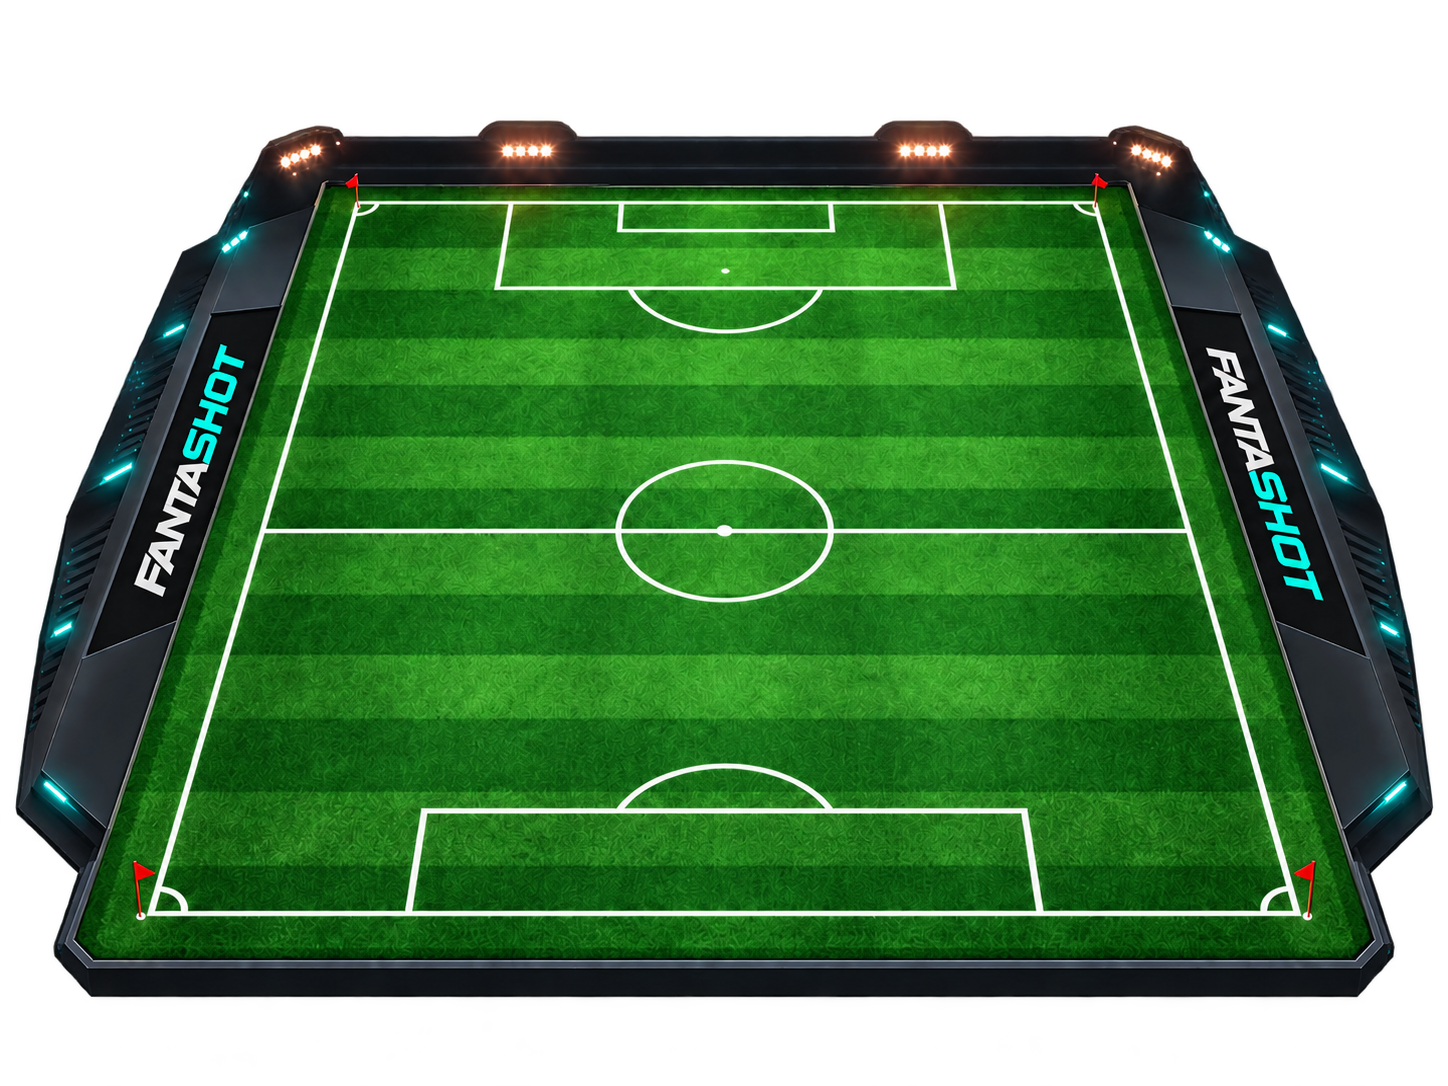
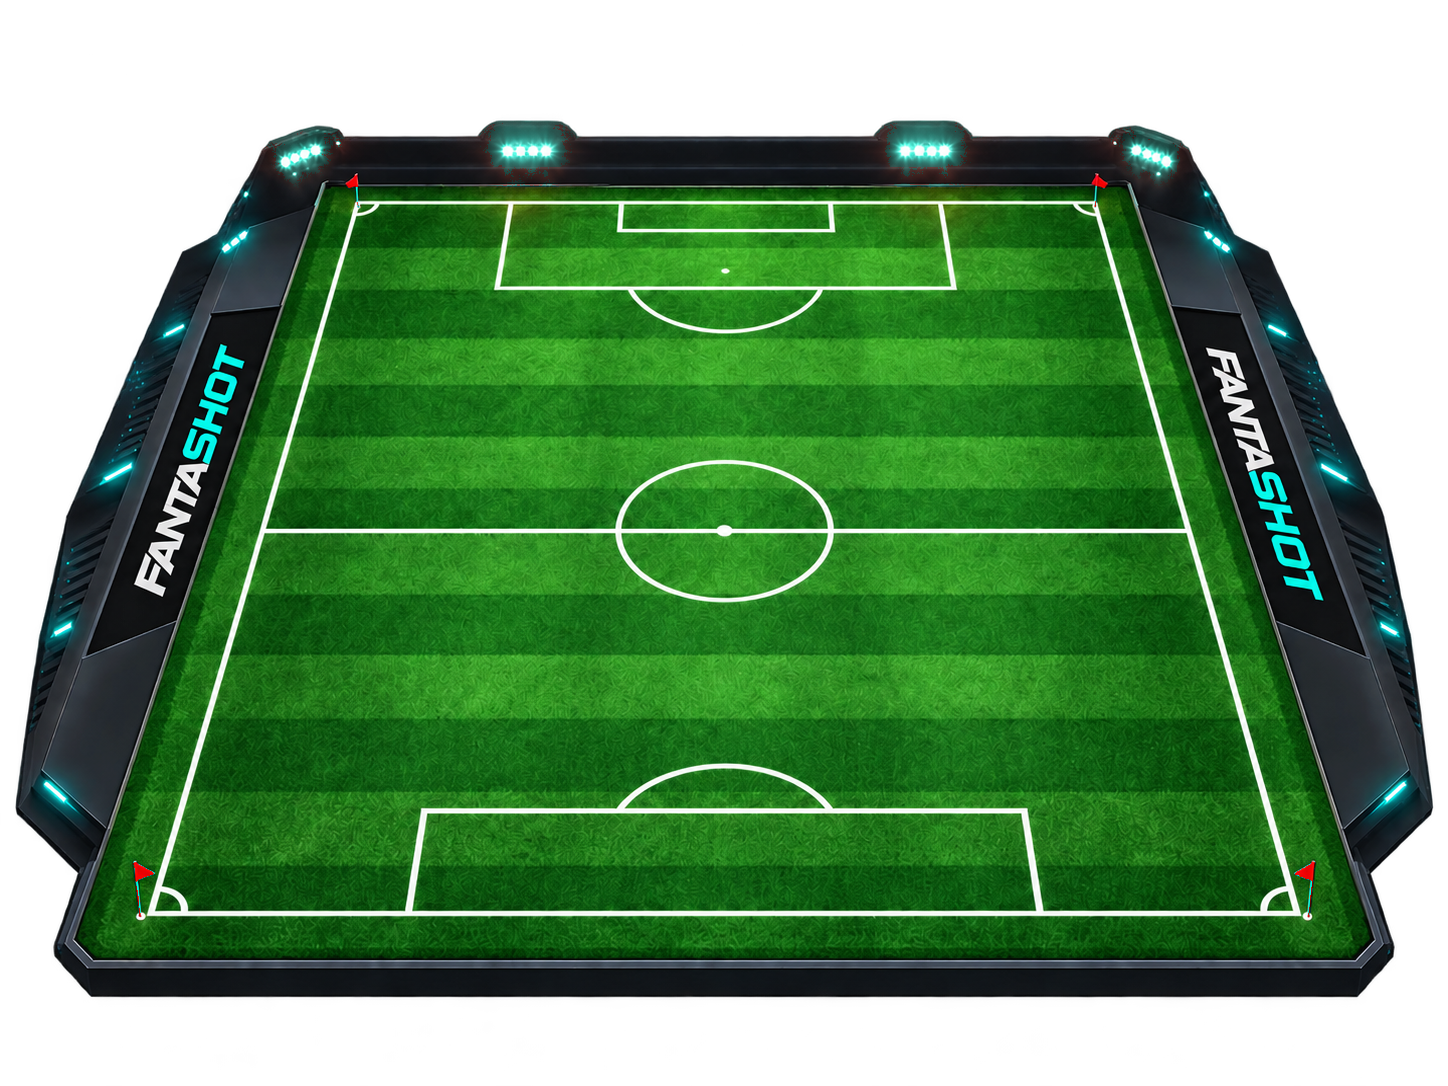
Rebrand palette (teal), classifica, anteprima formazione, regolamento, fix vari

diff --git a/components/tournament/TeamBuilder.tsx b/components/tournament/TeamBuilder.tsx
@@ -204,7 +204,7 @@ export function TeamBuilder({
   }
 
   return (
-    <div className="relative overflow-hidden rounded-xl border border-[#22E6C3]/30 bg-[linear-gradient(145deg,#0F1E2E_0%,#120605_58%,#1a0807_100%)] shadow-[0_26px_80px_rgba(0,0,0,0.45)]">
+    <div className="relative overflow-hidden rounded-xl border border-[#22E6C3]/30 bg-[linear-gradient(145deg,#0F1E2E_0%,#0A1420_58%,#06111B_100%)] shadow-[0_26px_80px_rgba(0,0,0,0.45)]">
       <div className="flex flex-wrap items-center justify-between gap-4 border-b border-white/10 bg-black/15 px-4 py-4 sm:px-6">
         <div className="flex items-center gap-3">
           <span className="grid h-10 w-10 place-items-center rounded-lg bg-[#22E6C3]/12 text-[#22E6C3]">
@@ -441,7 +441,7 @@ function FormationSummary({
 
   return (
     <aside className="border-t border-[#22E6C3]/20 bg-black/15 p-4 sm:p-5 xl:border-t-0">
-      <div className="rounded-xl border border-[#22E6C3]/25 bg-[linear-gradient(145deg,rgba(35,10,8,0.9),rgba(18,6,5,0.96))] p-4">
+      <div className="rounded-xl border border-[#22E6C3]/25 bg-[linear-gradient(145deg,rgba(15,30,46,0.9),rgba(6,17,27,0.96))] p-4">
         <section>
         <div className="flex items-center gap-2 text-[#22E6C3]">
           <FormationIcon />
@@ -905,8 +905,8 @@ function PlayerPickerModal({
 
 function PitchBackground() {
   return (
-    <div className="absolute inset-0 overflow-hidden bg-[radial-gradient(ellipse_at_center,rgba(72,19,14,0.34),transparent_68%)]">
-      <div className="absolute inset-x-[8%] bottom-[7%] top-[13%] bg-[radial-gradient(ellipse_at_center,rgba(16,185,44,0.2),transparent_65%)] blur-2xl" />
+    <div className="absolute inset-0 overflow-hidden bg-[radial-gradient(ellipse_at_center,rgba(34,230,195,0.18),transparent_68%)]">
+      <div className="absolute inset-x-[8%] bottom-[7%] top-[13%] bg-[radial-gradient(ellipse_at_center,rgba(34,230,195,0.2),transparent_65%)] blur-2xl" />
       {/* eslint-disable-next-line @next/next/no-img-element -- asset sostituito spesso durante lo sviluppo: la cache dell'ottimizzatore next/image intrappolava versioni vecchie */}
       <img
         src="/images/tournament-pitch.png"

diff --git a/components/TournamentCard.tsx b/components/TournamentCard.tsx
@@ -31,7 +31,7 @@ export function TournamentCard({ tournament }: { tournament: Tournament }) {
 
   return (
     <article className="group flex min-h-[132px] overflow-hidden rounded-lg border border-white/10 bg-[#0F1E2E]/88 shadow-[0_16px_44px_rgba(0,0,0,0.25)] backdrop-blur-lg transition duration-200 hover:-translate-y-0.5 hover:border-[#22E6C3]/30 hover:shadow-[0_18px_52px_rgba(34,230,195,0.12)] lg:min-h-0 lg:flex-col">
-      <div className="relative flex w-[96px] shrink-0 items-center justify-center overflow-hidden border-r border-white/8 bg-[radial-gradient(circle_at_50%_40%,rgba(34,230,195,0.2),rgba(17,7,7,0.92)_72%)] lg:h-[132px] lg:w-full lg:border-b lg:border-r-0">
+      <div className="relative flex w-[96px] shrink-0 items-center justify-center overflow-hidden border-r border-white/8 bg-[radial-gradient(circle_at_50%_40%,rgba(34,230,195,0.2),rgba(6,17,27,0.92)_72%)] lg:h-[132px] lg:w-full lg:border-b lg:border-r-0">
         {coverUrl ? (
           <>
             {/* eslint-disable-next-line @next/next/no-img-element -- host della copertina variabile per ambiente, evitiamo il whitelisting di next/image */}
